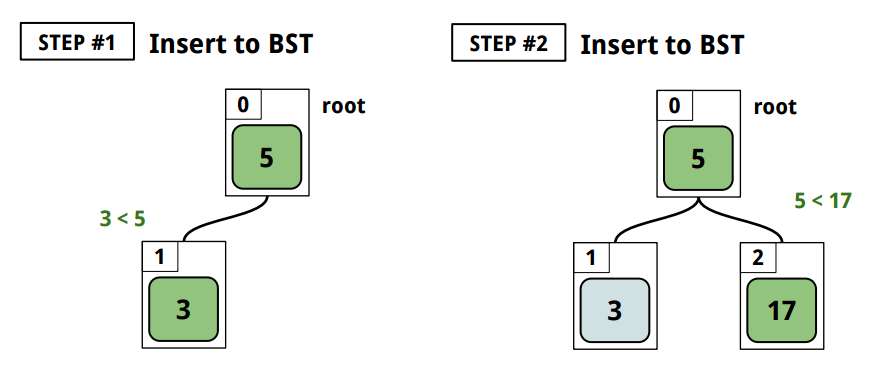
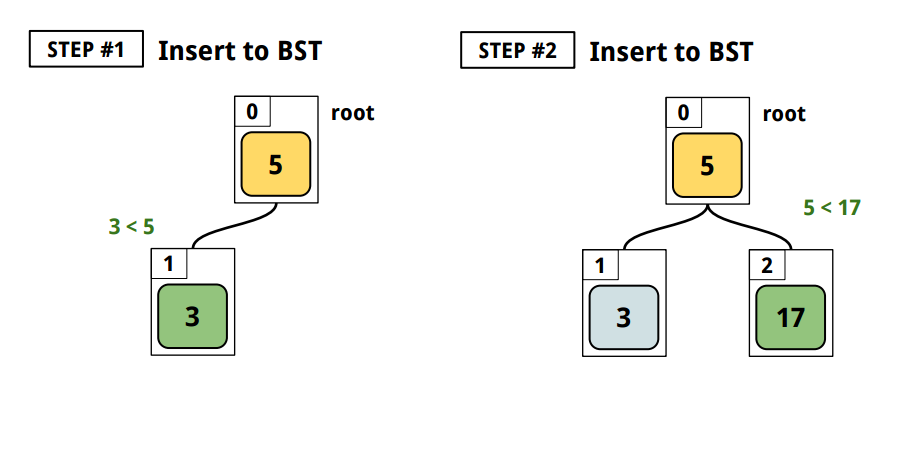
fix binary search tree images

diff --git a/doc/binary_search_tree/README.md b/doc/binary_search_tree/README.md
@@ -65,7 +65,7 @@ When given the following:
 Binary search tree would **insert** like this:
 
 ![bst_insert_01](img/bst_insert_01.png)
-![bst_insert_01](img/bst_insert_01.png)
+![bst_insert_02](img/bst_insert_02.png)
 
 <br>
 
